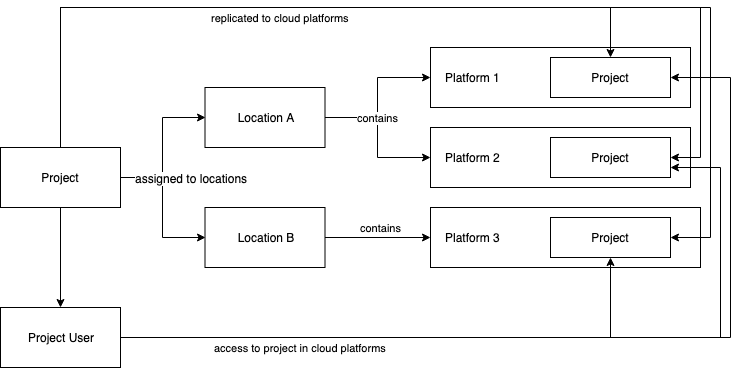
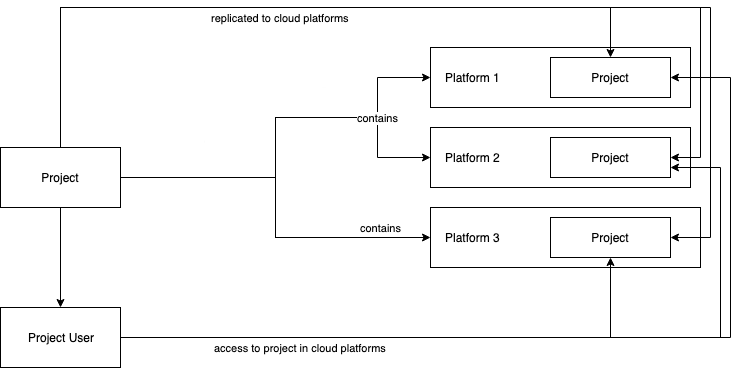
platforms instead of locations can be assigned to projects

diff --git a/docs/meshcloud.project.md b/docs/meshcloud.project.md
@@ -3,17 +3,17 @@ id: meshcloud.project
 title: meshProject
 ---
 
-meshProjects are multi-cloud enabled projects that allow teams to manage and scale cloud resources across all [meshPlatforms](meshcloud.platform-location.md) made available to their [meshCustomer](meshcloud.customer.md).
+meshProjects are multi-cloud enabled projects that allow teams to manage and scale cloud resources across all [meshPlatforms](meshcloud.platforms.md) made available to their [meshCustomer](meshcloud.customer.md).
 
 > Only users or users of [group](meshcloud.customer.md#user-groups) with the role [Customer Admin](meshcloud.customer.md#assign-meshcustomer-roles) have access to the administrative functionality described in this section.
 
 ## Create a new meshProject
 
-Log on to the Meshpanel with your account credentials and press `Create`. Type in a name for your new project and press `Next`. Choose a payment method and press `Next` again. In the last step, you can choose the locations from which you can obtain the cloud computing resources for your project. Press `Create Project` and you will see your new project listed in the Projects List.
+Log on to the Meshpanel with your account credentials and press `Create`. Type in a name for your new project and press `Next`. Choose a payment method and press `Next` again. In the last step, you can choose the meshPlatforms from which you can obtain the cloud computing resources for your project. Press `Create Project` and you will see your new project listed in the Projects List.
 
 ## Manage meshProjects
 
-In your **Account** section under **Projects** all meshProjects of your meshCustomer are listed. You find the **Account** section by pressing the settings icon on the top right of the meshPanel. You can execute administrative actions on your meshProjects from the **Projects** section. To edit a project, click the **pen** icon in the **Actions** column of the meshProject list. You can edit the assigned locations, payment information and the assigned users and groups of the project.
+In your **Account** section under **Projects** all meshProjects of your meshCustomer are listed. You find the **Account** section by pressing the settings icon on the top right of the meshPanel. You can execute administrative actions on your meshProjects from the **Projects** section. To edit a project, click the **pen** icon in the **Actions** column of the meshProject list. You can edit the assigned tenants, payment information and the assigned users and groups of the project.
 
 The following diagram shows how access rights and project [replication](./meshcloud.tenant.md) result in the correct project access for your users.
 
@@ -22,13 +22,13 @@ The following diagram shows how access rights and project [replication](./meshcl
 Projects have a representation in each cloud platform that we call [meshTenant](./meshcloud.tenant.md). Azure Subscriptions, AWS Accounts and Cloud Foundry Spaces are all examples of Tenants. Each meshProject can have at most one Tenant in cloud platforms enabled for the project.
 meshcloud uses orchestration to ensure users assigned to a meshProject always have the same role on all Tenants associated with the Project.
 
-### Adding meshPlatforms
+### Adding meshTenants
 
-The edit screen of a project shows the list of all [meshPlatforms](meshcloud.platform-location.md) grouped by location. Via the dropdown, new meshPlatforms can be added to the project. They will be added to the project when clicking the `+` button. Depending on the configuration of the [meshPlatform](meshcloud.platform-location.md), users may also have to select a [Landing Zone](meshcloud.landing-zones.md) for this platform.
+The edit screen of a project shows the list of all active [meshTenants](./meshcloud.tenant.md). Via a dropdown below this list, new meshTenants can be created by selecting the according [meshPlatform](meshcloud.platforms.md). They will be added to the project when clicking the `+` button. Depending on the configuration of the [meshPlatform](meshcloud.platforms.md), users may also have to select a [Landing Zone](meshcloud.landing-zones.md) for this platform.
 
-When adding a [meshPlatform](meshcloud.platform-location.md) to a meshProject, meshStack creates a representation of the meshProject for that meshPlatform. This representation is called a [meshTenant](meshcloud.tenant.md) and is an isolated cloud environment e.g. an AWS Account, Azure Subscription or Cloud Foundry Space.
+When adding a [meshPlatform](meshcloud.platforms.md) to a meshProject, meshStack creates a representation of the meshProject for that meshPlatform. This representation is called a [meshTenant](meshcloud.tenant.md) and is an isolated cloud environment e.g. an AWS Account, Azure Subscription or Cloud Foundry Space.
 
-[meshPlatforms](meshcloud.platform-location.md) can also be removed from the project with some limitations. All resources in the [meshTenant](meshcloud.tenant.md) (i.e. OpenStack instances, Cloud Foundry Apps, etc.) have to be deleted manually before removing a meshPlatform.
+[meshPlatforms](meshcloud.platforms.md) can also be removed from the project with some limitations. All resources in the [meshTenant](meshcloud.tenant.md) (i.e. OpenStack instances, Cloud Foundry Apps, etc.) have to be deleted manually before removing a meshPlatform. For a single meshTenant removal on a project, the same rules apply that are desibed in [Project Deletion](#delete-a-meshproject)
 
 ### Editing Payment and Project Settings
 
@@ -79,7 +79,7 @@ If you would like to delete a project which is no longer used, go to your **Acco
 
 The deletion procedure depends on the variaty of meshTenants under the project:
 
-1. a project contains exclusively tenants where we don't support automatic deletion (AWS, GCP, Azure, Kubernetes,OpenShift)
+1. a project contains exclusively tenants where we don't support automatic deletion (AWS, GCP, Azure, Kubernetes, OpenShift)
 2. a project contains exclusively OpenStack, Cloud Foundry and Marketplace meshTenants
 3. a project contains a project containing a combination of 1. and 2.
 

diff --git a/docs/meshstack.meshmarketplace.development.md b/docs/meshstack.meshmarketplace.development.md
@@ -13,7 +13,7 @@ You can find the **Marketplace Development** in your meshCustomer Account Area. 
 
 ### Register your Service Broker
 
-Registering your Service Broker does not publish your Service Broker directly for all users. Initially only your meshCustomer will have access to this Service Broker. We call this type of Service Broker a **private Service Broker**. It allows you to test and develop your Service Broker via the meshMarketplace development from the first steps on. A new Marketplace Location for your Customer will be available for your [projects](meshcloud.project.md#add-remove-locations-from-a-meshproject) after registering a Service Broker. When you select it for a project, your own Marketplace will be available on the project.
+Registering your Service Broker does not publish your Service Broker directly for all users. Initially only your meshCustomer will have access to this Service Broker. We call this type of Service Broker a **private Service Broker**. It allows you to test and develop your Service Broker via the meshMarketplace development from the first steps on. A new Marketplace Platform for your Customer will be available for your [projects](meshcloud.project.md#adding-meshtenants) after registering a Service Broker. When you select it for a project, your own Marketplace will be available on the project.
 
 You can register your service broker via the **Register Service Broker** button. The following information must be provided for this:
 
@@ -38,7 +38,7 @@ As soon as your Service Broker is production-ready, you can publish it to the pu
 
 To publish your Service Broker, click the **Publish Service Broker** button for the according Service Broker.
 
-You can choose which public Marketplace you want to publish your Service Broker to. In most cases a Marketplace is available for every [Location](meshstack.platform-location.md) that is configured in your meshStack installation. For many services, like databases, storage, etc, it makes sense to provide the Service Broker in the same Location the applications consuming the service are running. This enables best latency, security and performance for using your services. But there are also other Service Brokers like a service that provides user credentials for using an internet proxy, which are independent of the Location. In these cases the Service Broker can simply be published to the **Global** Location.
+You can choose which public Marketplace you want to publish your Service Broker to. For many services, like databases, storage, etc, it makes sense to provide the Service Broker in the same Location the applications consuming the service are running. This enables best latency, security and performance for using your services. But there are also other Service Brokers like a service that provides user credentials for using an internet proxy, which are independent of the Location. In these cases the Service Broker can simply be published to the **Global** Location.
 
 Location-based Service Brokers should be running independently from each other in all Locations they are published to. Therefore different endpoints and credentials have to be configured for every Location. Endpoints of published Service Brokers must always use an **https** endpoint, because that's the way how security can be established for the communication between the meshMarketplace and your Service Broker.
 

diff --git a/docs/meshstack.authorization.md b/docs/meshstack.authorization.md
@@ -43,7 +43,7 @@ Users with the right permissions can assign meshCustomer roles in self-service w
 
 ### meshProject Roles
 
-[meshProject roles](meshcloud.project.md#project-roles) grant users access to meshProjects and their associated [meshTenants](meshcloud.tenant.md). meshProject roles are special in that they do not grant permissions within meshStack (apart from permission to view the meshProject). Instead meshStack replicates meshProject role bindings to the associated meshTenants according to their [meshPlatform](meshcloud.platform-location.md) and [Landing Zone](meshcloud.landing-zones.md) configuration.
+[meshProject roles](meshcloud.project.md#project-roles) grant users access to meshProjects and their associated [meshTenants](meshcloud.tenant.md). meshProject roles are special in that they do not grant permissions within meshStack (apart from permission to view the meshProject). Instead meshStack replicates meshProject role bindings to the associated meshTenants according to their [meshPlatform](meshcloud.platforms.md) and [Landing Zone](meshcloud.landing-zones.md) configuration.
 
 Users with the right permissions can [assign meshProject roles](meshcloud.project.md#assign-user-to-a-meshproject) in self-service. Users and groups can only have meshProject role bindings as long as they also have a role binding on the meshCustomer that is the owner of that meshProject. Revocation of this meshCustomer role binding causes revocation of all associated meshProject role bindings.
 
@@ -51,7 +51,7 @@ Users with the right permissions can [assign meshProject roles](meshcloud.projec
 
 ### Available meshProject Roles
 
-Operators globally configure the names and identifiers of meshProject roles available in their meshStack implementation. The individual [meshPlatform](meshcloud.platform-location.md) and [Landing Zone](meshcloud.landing-zones.md) configuration determines how these meshProject roles are mapped to cloud roles/permissions for an individual meshTenant.
+Operators globally configure the names and identifiers of meshProject roles available in their meshStack implementation. The individual [meshPlatform](meshcloud.platforms.md) and [Landing Zone](meshcloud.landing-zones.md) configuration determines how these meshProject roles are mapped to cloud roles/permissions for an individual meshTenant.
 
 The default configuration of meshStack ships with these roles and intended use.
 

diff --git a/docs/meshstack.identity-federation.md b/docs/meshstack.identity-federation.md
@@ -24,7 +24,7 @@ In this mode meshStack provisions identities used in meshProjects on the respect
 
 Some public cloud platforms like [Microsoft Azure](./meshstack.azure.index.md) or [Google Cloud Platform](./meshstack.gcp.index.md) feature their own directory services for cloud-based or hybrid user identities. Enterprises provision cloud identities by synchronizing an on-premise directory to the cloud. These setups are especially common for enterprises using Office 365 or Google G-Suite.
 
-meshStack supports using user identities from these cloud directories for the resepective cloud [meshPlatform](./meshcloud.platform-location.md). meshStack calls these **externally provisioned user identities** because provisioning and identity federation between on-premise and cloud-directory happens outside of meshStack. In order to use the right externally provisioned user identity when provisioning permissions, meshStack needs to map a federated user identity used in meshStack to its corresponding externally provisioned user identity. This mapping is based on the `external user id` or `euid` in short.
+meshStack supports using user identities from these cloud directories for the resepective cloud [meshPlatform](./meshcloud.platforms.md). meshStack calls these **externally provisioned user identities** because provisioning and identity federation between on-premise and cloud-directory happens outside of meshStack. In order to use the right externally provisioned user identity when provisioning permissions, meshStack needs to map a federated user identity used in meshStack to its corresponding externally provisioned user identity. This mapping is based on the `external user id` or `euid` in short.
 
 When using externally provisioned user identities, IdPs must also provide a stable and immutable `euid` claim or user property that is also present in the cloud directory. meshStack will use the `euid` to map identities from meshStack to their respective cloud identity. Most setups use an existing `email` or `username` property as the `euid`.
 

diff --git a/docs/meshstack.platforms.md b/docs/meshstack.platforms.md
@@ -1,9 +1,9 @@
 ---
-id: meshstack.platform-location
-title: Platforms & Locations
+id: meshstack.platforms
+title: meshPlatforms
 ---
 
-meshStack operators can configure the [Platforms & Locations](meshcloud.platform-location.md) available to
+meshStack operators can configure the Platforms available to
 users. See the Platforms section in the sidebar for details on the platforms supported by meshstack.
 
 ## Restricting Access
@@ -12,14 +12,14 @@ meshStack provides simple and effective means to implement access policies, for 
 
 ### Customer-level
 
-Operators can restrict the [Customer](meshcloud.customer.md) accounts that are allowed to access a particular [Platform Instance inside any Location](meshcloud.platform-location.md). The UI for maintaining the restricted access is described [here](administration.platforms.md#restrict-meshPlatforms).
+Operators can restrict the [Customer](meshcloud.customer.md) accounts that are allowed to access a particular [Platform Instance](meshcloud.platforms.md). The UI for maintaining the restricted access is described [here](administration.platforms.md#restrict-meshPlatforms).
 
 This feature can be used for example to restrict access to a public cloud provider only to customer accounts that passed a certain data-protection clearance process.
 
 ### Project-level
 
-Customers can create [meshProjects](meshcloud.project.md) that use the Locations available to their Customer account.
-Configuring the locations available to a project is typically restricted to users with the [Customer Admin Role](meshcloud.customer.md#assign-meshCustomer-roles), providing a further level of possible delegation.
+Customers can create [meshProjects](meshcloud.project.md) that use the meshPlatforms available to their Customer account.
+Configuring the meshPlatforms available to a project is restricted to users with the [Customer Admin and Owner Role](meshcloud.customer.md#assign-meshCustomer-roles), providing a further level of possible delegation.
 
 ## Deprovisioning / Deleting Projects
 

diff --git a/docs/administration.projects.md b/docs/administration.projects.md
@@ -82,10 +82,9 @@ The following events are available:
 - **PROJECT_DELETED**: A meshProject was deleted by a customer admin.
 - **PROJECT_DELETION_CONFIRMED**: A partner or platform operator confirmed a meshProject deletion that required manual deletion of platform tenants.
 - **PROJECT_DELETION_DECLINED**: A partner or platform operator declined a meshProject deletion that required manual deletion of platform tenants.
-- **PROJECT_DELETED_IN_ALL_LOCATIONS**: Tenants of a meshProject are deleted asynchronously after the user deleted the project. When this deletion is successful, this event is written.
-- **LOCATIONS_ADDED**: One or more locations were added to a project.
-- **LOCATION_REMOVED**: One or more locations were removed from a project.
-- **PLATFORM_MAPPINGS_UPDATED**: A tenant was created for the meshProject. meshStack stores a mapping between the meshProject and the cloud tenant (the representation of a meshProject in a cloud platform).
+- **ALL_PROJECT_TENANTS_DELETED**: Tenants of a meshProject are deleted asynchronously after the user deleted the project. When this deletion is successful, this event is written.
+- **TENANT_ADDED**: One tenant was added to a project.
+- **TENANT_REMOVED**: One tenant was removed from a project.
 - **USER_ASSIGNED**: A user was assigned to the project. If [4-EP](meshstack.authorization.md#user-project-role-approval) is active, this event is written after successful approval of the role request.
 - **USER_UNASSIGNED**: A user was removed from the project.
 - **PROJECT_ROLE_CHANGED**: The user role was changed on the project. If [4-EP](meshstack.authorization.md#user-project-role-approval) is active, this event is written after successful approval of the role request.

diff --git a/docs/meshcloud.tenant.md b/docs/meshcloud.tenant.md
@@ -3,7 +3,7 @@ id: meshcloud.tenant
 title: meshTenant
 ---
 
-meshTenants are the representation of a [meshProject](./meshcloud.project.md) in a [meshPlatform](./meshcloud.platform-location.md).
+meshTenants are the representation of a [meshProject](./meshcloud.project.md) in a [meshPlatform](./meshcloud.platforms.md).
 meshTenants are isolated cloud environments protected by multi-tenant mechanisms of the cloud platform such as
 AWS Accounts, Azure Subscriptions or Cloud Foundry Spaces.
 
@@ -12,7 +12,7 @@ a [meshProject](./meshcloud.project.md).
 
 ## Replication and Reconciliation
 
-meshStack combines the meshProject configuration (managed in self-service by the [meshCustomer](./meshcloud.customer.md) admins), the [Landing Zone](./meshcloud.landing-zones.md) and [meshPlatform](./meshcloud.platform-location.md) configuration (managed by the operator) to compute a **desired state** for each meshTenant. For private cloud platforms this may include applying certain [quotas](./meshcloud.tenant-quota.md) to your meshTenant.
+meshStack combines the meshProject configuration (managed in self-service by the [meshCustomer](./meshcloud.customer.md) admins), the [Landing Zone](./meshcloud.landing-zones.md) and [meshPlatform](./meshcloud.platforms.md) configuration (managed by the operator) to compute a **desired state** for each meshTenant. For private cloud platforms this may include applying certain [quotas](./meshcloud.tenant-quota.md) to your meshTenant.
 
 meshStack continuously reconciles the **actual state** of meshTenants with their desired state. This process is called replication and ensures that all cloud tenants governed by meshStack are in a known and expected state.
 

diff --git a/docs/meshstack.logging.md b/docs/meshstack.logging.md
@@ -37,7 +37,7 @@ Changes (add, change, delete) to data are logged to provide traceability. Regard
 | Event (What?)                                                                   | Log-File / DB-Table (Where)          |
 | ------------------------------------------------------------------------------- | ------------------------------------ |
 | Authentication ((invalid) Logins, Logout, Timeout of session, …)                | Keycloak Events table, events.log    |
-| Create/Edit/Delete Project, Add/Remove Location from Project                    | ProjectEvent table, mesh.log         |
+| Create/Edit/Delete Project, Add/Remove Tenant from Project                      | ProjectEvent table, mesh.log         |
 | Replication to cloud platform                                                   | According component log              |
 | Interactions with Service Brokers (create/update/delete instance & bindings)    | mesh.log, ServiceInstanceEvent table |
 | Register Customer, Edit Customer Master Data (Payment Info)                     | CustomerEvent table, mesh.log        |
@@ -148,7 +148,7 @@ Example Admin Event:
 
 Example:
 
-`2018-10-23 10:36:49.771  INFO 47534 --- [ask-scheduler-8] d.c.web.project.ProjectDeletionService   : 0 project(s) have been deleted in the locations`
+`2018-10-23 10:36:49.771  INFO 47534 --- [ask-scheduler-8] d.c.web.project.ProjectDeletionService   : 0 project(s) have been deleted in the platforms`
 
 ## Retention Times
 

diff --git a/docs/meshstack.azure.index.md b/docs/meshstack.azure.index.md
@@ -62,7 +62,7 @@ To provide Azure Subscription for your organization's meshProjects, meshcloud su
 
 meshcloud can automatically provision new subscriptions from an Enterprise Enrollment Account owned by your organization. This is suitable for large organizations that have a Microsoft Enterprise Agreement, Microsoft Customer Agreement or a Microsoft Partner Agreement and want to provide a large number of subscriptions in a fully automated fashion.
 
-> Microsoft currently has limitation of a [maximum of 2000 Subscriptions](https://docs.microsoft.com/en-us/azure/azure-resource-manager/management/programmatically-create-subscription?tabs=rest#limitations-of-azure-enterprise-subscription-creation-api) per Enrollment Account (EA). It's therefore possible to configure meshStack to consume subscriptions from multiple EA's for the same [meshPlatform](./meshcloud.platform-location.md). Please contact our experts for more details.
+> Microsoft currently has limitation of a [maximum of 2000 Subscriptions](https://docs.microsoft.com/en-us/azure/azure-resource-manager/management/programmatically-create-subscription?tabs=rest#limitations-of-azure-enterprise-subscription-creation-api) per Enrollment Account (EA). It's therefore possible to configure meshStack to consume subscriptions from multiple EA's for the same [meshPlatform](./meshcloud.platforms.md). Please contact our experts for more details.
 
 #### Setting up the Enrollment Account
 

diff --git a/docs/meshcloud.platforms.md b/docs/meshcloud.platforms.md
@@ -1,0 +1,31 @@
+---
+id: meshcloud.platforms
+title: meshPlatforms
+---
+
+At the heart of a meshcloud are the cloud platforms that provide cloud services and resources to users.
+
+## meshPlatforms
+
+The following terms relate to cloud platforms:
+
+- platform-type describes the type of a cloud platform, e.g. OpenStack, Cloud Foundry or AWS.
+- meshPlatform to describe a particular deployment of such a cloud platform.
+
+For example, meshstack can manage two, fully isolated OpenStack deployments located in different
+regions in the same meshcloud. While they are both of the same platform-type OpenStack, they each
+are individual meshPlatforms.
+
+## meshLocations
+
+In a meshcloud, cloud meshPlatforms can be grouped by **meshLocation**.
+Locations are free-form but they are typically used to help users identify the geographic datacenter
+location as well as identify the party that is responsible for managing the cloud meshPlatforms
+in this meshLocation. For example, this could be an internal IT division that manages private clouds or
+an external service provider.
+
+## Using Platforms
+
+Users can configure which meshPlatforms their [Projects](meshcloud.project.md) are enabled to use.
+The meshPlatforms available to your projects can be governed by [Landing Zones](meshcloud.landing-zones.md)
+configured by your [meshStack operator](meshstack.index.md).

diff --git a/docs/meshcloud.index.md b/docs/meshcloud.index.md
@@ -23,8 +23,8 @@ The figure and table below explain the relation of the most important concepts i
 | [meshProject](./meshcloud.project.md)          | A multi-cloud project owned by a [meshCustomer](./meshcloud.customer.md)                  |
 | [meshTenant](./meshcloud.tenant.md)            | An isolated environment in a specific cloud platform, e.g. an AWS Account.                |
 | [meshLandingZone](meshcloud.landing-zones.md)  | Defines configuration and governance policies for cloud environments.                     |
-| [meshPlatform](meshcloud.platform-location.md) | An individual cloud platform connected to meshcloud.                                      |
-| [meshLocation](meshcloud.platform-location.md) | A grouping of meshPlatforms, e.g. by geographic region.                                   |
+| [meshPlatform](meshcloud.platforms.md) | An individual cloud platform connected to meshcloud.                                      |
+| [meshLocation](meshcloud.platforms.md) | A grouping of meshPlatforms, e.g. by geographic region.                                   |
 
 
 ## meshPanel supported browsers

diff --git a/docs/meshcloud.policies.md b/docs/meshcloud.policies.md
@@ -28,7 +28,7 @@ You may encounter policies in the meshPanel when doing any of the following acti
     1. When adding a meshPlatform with a meshLandingZone to a new project, all policies are evaluated between a 'meshProject' and a 'meshLandingZone'
     2. Upon saving a new project, all policies between 'meshCustomer' and 'meshProject' are evaluated.
 2. Editing a project
-    1. When adding a new location with a meshLandingZone all policies are evaluated between the 'meshProject' and the selected 'meshLandingZone'.
+    1. When adding a new meshTenant with a meshLandingZone all policies are evaluated between the 'meshProject' and the selected 'meshLandingZone'.
     2. When adding a new meshUser or meshCustomerUserGroup to a meshProject, all policies are evaluated between the 'meshProject' and the 'meshUser/Group'.
     3. When changing a tag value (e.g. changing the environment) of a project, **all** policies related to the meshProject are evaluated as it impacts many meshObjects. The following meshObjects will be evaluated on to the project:
         - the meshCustomer the project lives in
